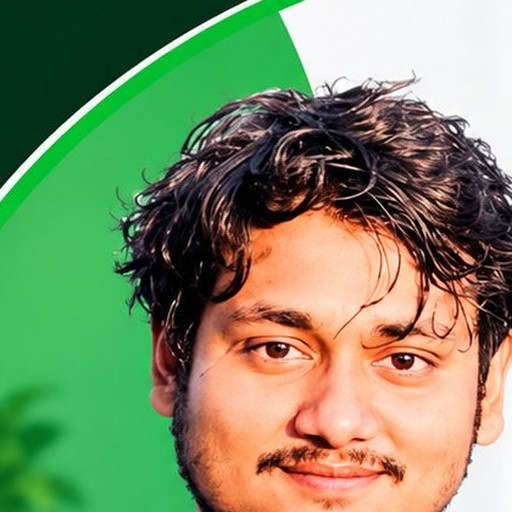
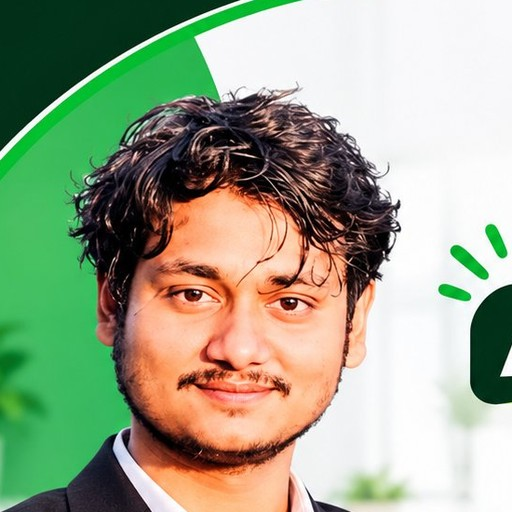
Deploy draw-alive dinosaur pages (QR links for How to Draw Cute Dinosaurs for Kids)

diff --git a/va-portfolio/index.html b/va-portfolio/index.html
@@ -426,7 +426,7 @@
           <span class="availability"><span class="dot" aria-hidden="true"></span> Available for new clients</span>
         </div>
         <h1>Saif — Virtual Assistant</h1>
-        <p class="tagline">Email, calendar, data entry, research and social media — handled daily, checked twice.</p>
+        <p class="tagline">Email, calendar, data entry, research and social media — handled daily, checked twice. Senior VA skills in progress: CRM, email marketing and bookkeeping.</p>
         <div class="header-actions">
           <a class="btn btn-light" href="#hire">How to hire me</a>
           <a class="btn btn-outline" href="#samples">See work samples</a>
@@ -601,12 +601,16 @@
         <div class="chip-group">
           <h3>Learning now</h3>
           <ul class="chips">
-            <li class="learning">CRM management (HubSpot)</li>
-            <li class="learning">Email marketing (Mailchimp)</li>
-            <li class="learning">Bookkeeping (QuickBooks)</li>
-            <li class="learning">Automation (Zapier)</li>
-            <li class="learning">Project management (Asana)</li>
+            <li class="learning">CRM management (HubSpot, Salesforce)</li>
+            <li class="learning">Email marketing (Mailchimp, ConvertKit)</li>
+            <li class="learning">Bookkeeping (QuickBooks, Xero)</li>
+            <li class="learning">Automation (Zapier, Make)</li>
+            <li class="learning">Project management (Asana, Monday)</li>
             <li class="learning">WordPress updates</li>
+            <li class="learning">Customer support (Zendesk)</li>
+            <li class="learning">E-commerce support (Shopify)</li>
+            <li class="learning">Content writing &amp; proofreading</li>
+            <li class="learning">Data reporting &amp; dashboards</li>
           </ul>
         </div>
       </section>
